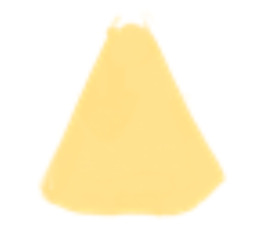
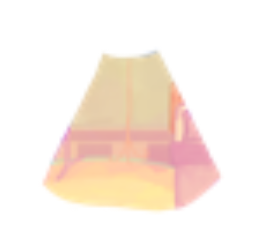
page two button fixes

diff --git a/page2/index.html b/page2/index.html
@@ -1,9 +1,6 @@
 <!DOCTYPE html>
 <html>
 <head>
-	<div class="navbar">
-		
-	</div>
 	<title>Group 5 Homepage</title>
 
 	<!-- Use UTF character set, a good idea with any webpage -->
@@ -16,56 +13,68 @@
 	<!-- Lab-specifc CSS file for any special styling of this particular page -->
 	<link rel="stylesheet" type="text/css" href="css/page.css">
 	<!-- Link to javascript file - DEFER waits until all elements are rendered -->
-	<script type="text/javascript" src="./js/lab.js" DEFER></script> 
 	<script src="https://code.jquery.com/jquery-3.6.0.min.js"></script>
+	<script type="text/javascript" src="./js/lab.js" DEFER></script> 
+  <style>
+    body {
+      background-image: url('./img/roombase.png');
+      background-size: cover;
+      background-repeat: no-repeat;
+      background-position: center;
+      margin: 0;
+      height: 100vh;
+    }
+
+    .light-control {
+      position: fixed;
+      left: 21.5%;
+      opacity: 0.9;
+      background-color: transparent;
+      border: none;
+	  top: 11%;
+    }
+	.light-control img{
+		width: 390px
+	}
+
+    .light-control button {
+      border: none;
+	  left:34.5%;
+	  top:2%;
+    }
+
+    .light-control button img {
+      width: 220px;
+    }
+
+	#door-button img{
+		width: 160px;
+	}
+	#door-button{
+		left:72.7%;
+		top:39.5%
+	}
+  </style>
 </head>
 <body>
-	
-	<main id="content">
-        
-        <style>
-			body {
+  <main id="content">
+    <div class="light-control">
+      <img id="myImage" src="img/lightbeam.png" alt="light">
+      <button onclick="toggleImage()">
+		<img src="img/lamp.png" alt="Button Image">
+	  </button>
+    </div>
+  </main>
 
-			  background-image: url('./img/roombase.png');
-			  background-size: cover;       /* makes the image cover the entire background */
-			  background-repeat: none; /* avoids tiling */
-			  background-position: center;  /* centers the image */
-			  margin: 0;                    /* removes default body margin */
-			  height: 100vh;                /* ensures body takes full viewport height */
-			}
-		  </style>
-		<section>
-			<button id ="button">
-				<img src="img/lamp.png" alt="Button Image">
-			</button>
-			<div id="image-container"></div>
-			<script>
-			$(document).ready(function() {
-    let imageVisible = false;
-
-    $('#button').click(function() {
-        if (!imageVisible) {
-            $('#image-container').append(
-                '<img id="toggle-image" src="img/lightbeam.png" alt="light" style="position: fixed; bottom: 450px; left: 32%; transform: translateX(-30%); opacity: 0.6; background-color: transparent; border: none; width: 200px;">'
-            );
-            imageVisible = true;
-        } else {
-            $('#toggle-image').remove();
-            imageVisible = false;
-        }
-    });
-});
-			
-			</script>
-
-			<div class="minor-section">
-			</div>
-			<div class="minor-section">
-	
-					
-			</div>
-		</section>
-
-	</main>
+  <script>
+    function toggleImage() {
+      $("#myImage").toggle();
+    }
+  </script>
+  <a href="page3/">
+	<button id ="door-button">
+		<img src="img/door.png" alt="Button Image">
+	</button>
+  </a>
 </body>
 </html>
